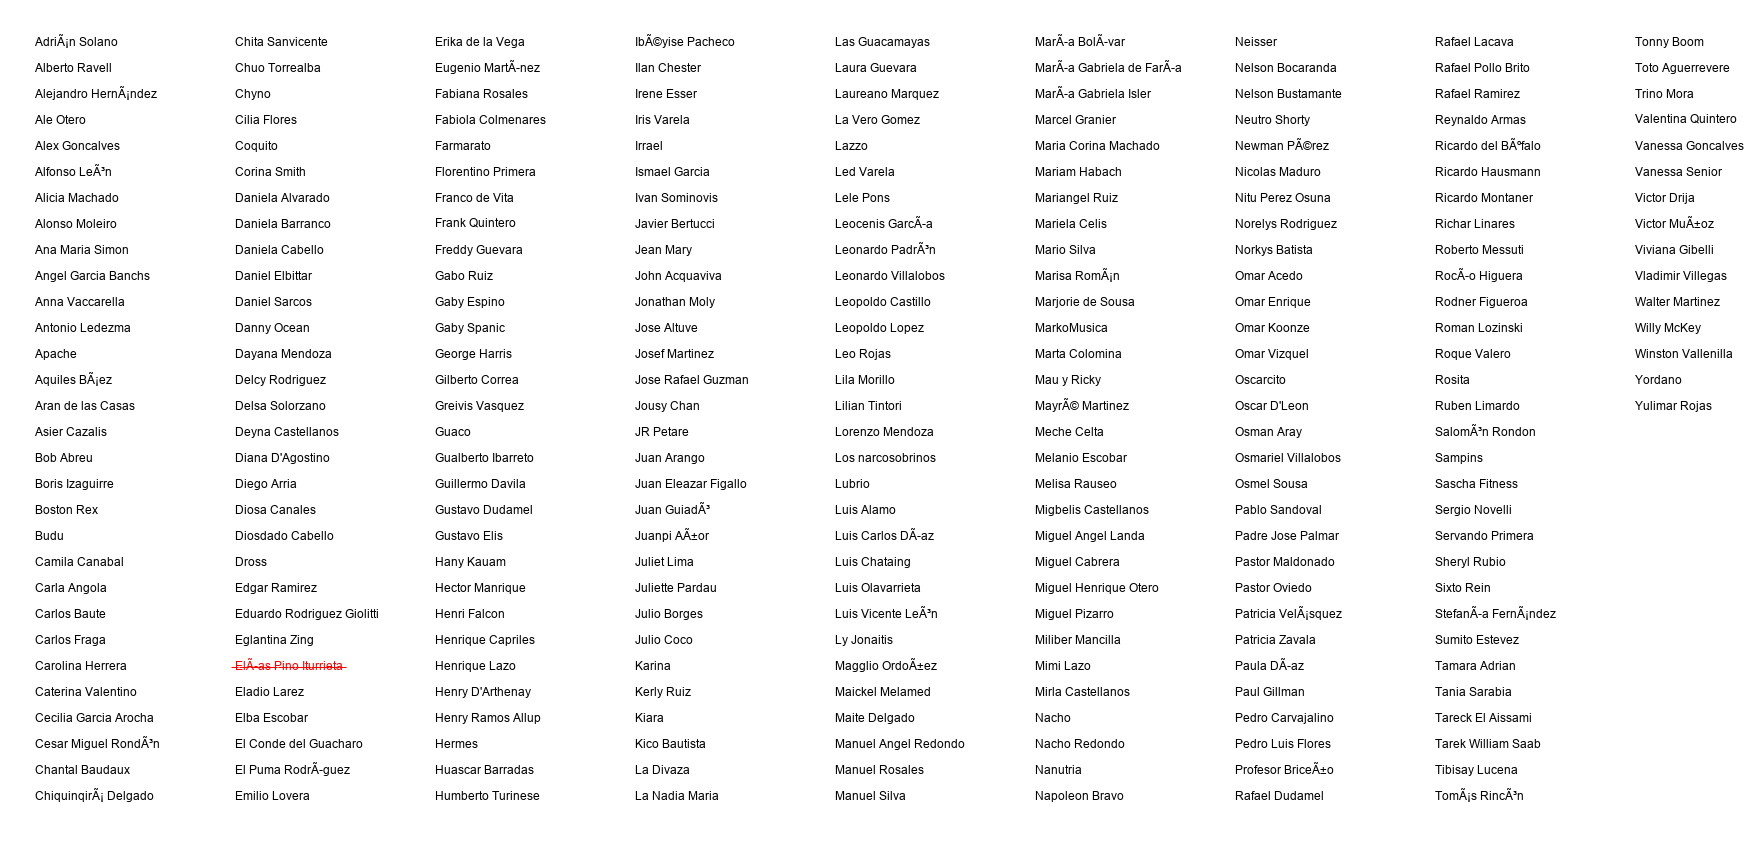
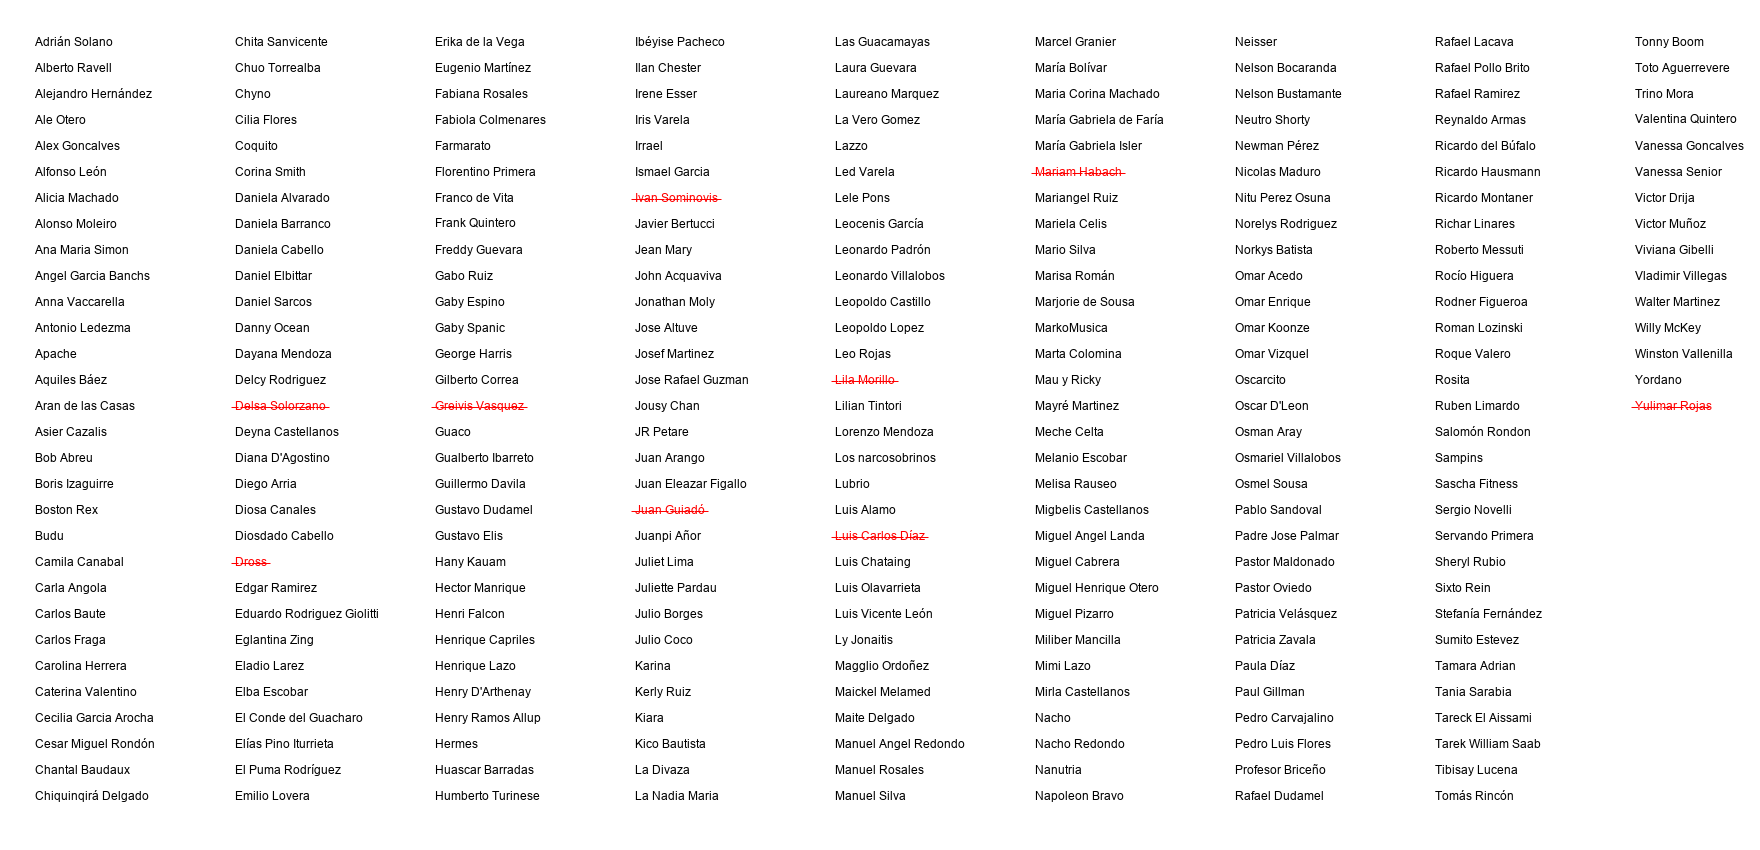
new version of bot virus

diff --git a/bot.py b/bot.py
@@ -8,6 +8,7 @@ import re
 from config import BotHelper
 from PIL import Image, ImageDraw, ImageFont
 import logging
+from datetime import date
 
 
 class Player:
@@ -32,8 +33,8 @@ class Bot(BotHelper):
 
         return instance_list
 
-    def selectPlayers(self):
-        print("Seleccionando jugadores")
+    def selectPlayer(self):
+        print("Seleccionando jugador")
         # Get all alive players
         db_player_list = self.query_all("SELECT * FROM players WHERE isalive = true")
         self.player_list = self.create_player_list(db_player_list)
@@ -43,45 +44,32 @@ class Bot(BotHelper):
         if (self.alive_players == 1 ):
             # Exit with winner
             self.winner = True
-            return self.player_list[0], None;
+            return self.player_list[0]
 
         # Choose player based on selectprob by id
-        killer = random.choices(self.player_list, weights=[player.selectprob for player in self.player_list])
-        victim_list = [player for player in self.player_list if player.p_id != killer[0].p_id]
-
-        # Choose victim based on deathprob
-        victim = random.choices(victim_list, weights=[victim.deathprob for victim in victim_list])
+        infected = random.choices(self.player_list, weights=[player.selectprob for player in self.player_list])
 
         # Killer gets more selectprob and less deathprob
-        killer[0].deathprob -= 0
-        killer[0].selectprob += 0
-        killer[0].wins += 1
+        infected[0].deathprob -= 0
+        infected[0].selectprob += 0
+        infected[0].wins += 0
 
         # Victim gets killed
-        victim[0].isalive = False
+        infected[0].isalive = False
 
         self.alive_players -= 1
 
         # Return players in a tuple
-        print(f"Jugadores seleccionados. {killer[0].name} y {victim[0].name}")
-        return killer[0], victim[0];
+        print(f"Jugador infectado. {infected[0].name}")
+        return infected[0]
 
-    def updateDB(self, killer, victim): 
+    def updateDB(self, infected): 
         print("Actualizar BD")
-        # Update Killer probabilities
-        try:
-            update_k_query = """Update players set deathprob = %s, selectprob = %s, wins = %s where id = %s"""
-            self.cursor.execute(update_k_query, (killer.deathprob, killer.selectprob, killer.wins, killer.p_id ))
-            self.conn.commit()
-        except (Exception, psycopg2.Error) as error :
-            print ("Error while connecting to PostgreSQL", error)
-            self.close()
-            sys.exit(1)
 
         # Update victim status
         try:
             update_v_query = """Update players set isalive = %s where id = %s"""
-            self.cursor.execute(update_v_query, (False, victim.p_id ))
+            self.cursor.execute(update_v_query, (False, infected.p_id))
             self.conn.commit()
         except (Exception, psycopg2.Error) as error :
             print ("Error while connecting to PostgreSQL", error)
@@ -133,7 +121,7 @@ class Bot(BotHelper):
         print("Imagen generada")
         return img
 
-    def tweetResults(self, killer, victim):
+    def tweetResults(self, infected):
         # Create a tweet
         print("Creando tweet final")
 
@@ -141,39 +129,23 @@ class Bot(BotHelper):
         status_img = open('status.png', 'rb')
         img_id = self.api.media_upload(filename="status.png")
 
-        # Calcular semana del evento
-        current_date = self.query_all("SELECT * from gamedate;")
+        # Calcular fecha del evento
+        current_date = date.today()
 
-        year = current_date[0][0]
-        term = current_date[0][1]
-        id_db = current_date[0][2]
+        year = current_date.year
+        month = current_date.month
+        day = current_date.day
 
-        name1 = killer.name.strip()
+        infected_name = infected.name.strip()
 
-        if victim is not None:
-            name2 = victim.name.strip()
+        if not self.winner:
             with open('Temp.txt', 'w') as f:
-                f.write(f'{term.capitalize()} Lapso del año {year}.\n\n{name1} HA MATADO a {name2}.\n\nQuedan {self.alive_players} ignacianos.')
+                f.write(f'Hoy es {day}/{month}/{year}.\n\nActualmente existen ## infectados en el país.\n\n{infected_name} HA DADO POSITIVO POR CORONAVIRUS.\n\nQuedan {self.alive_players} personas sanas.')
         else:
             with open('Temp.txt', 'w') as f:
-                f.write(f'{term.capitalize()} Lapso del año {year}.\n\nEL ÚLTIMO IGNACIANO ES: {name1}.\n\n¡EN TODO AMAR Y SERVIR!')
+                f.write(f'Hoy es {day}/{month}/{year}.\n\nActualmente existen ## infectados en el país.\n\n¡{infected_name} ES LA ÚLTIMA PERSONA SANA DEL PAÍS, HA CONSEGUIDO LA CURA DEL VIRUS!')
 
-        if term == "TERCER":
-            new_term = "PRIMER"
-        elif term == "PRIMER":
-            new_term = "SEGUNDO"
-            year = year + 1
-        elif term == "SEGUNDO":
-            new_term = "TERCER"
-
-        print(f"Twitteando resultados {term} {year} jug1: {name1} ")
-        #try:
-        #    update_t_query = """Update gamedate set year = %s, term = %s where id = %s"""
-        #    self.cursor.execute(update_t_query, (year, new_term.upper(), id_db))
-        #    self.conn.commit()
-        #except (Exception, psycopg2.Error) as error :
-        #    print ("Error while connecting to PostgreSQL", error)
-        #   sys.exit(1)
+        print(f"Twitteando resultados {infected_name} ")
 
         with open('Temp.txt','r') as f:
             self.api.update_status(f.read(), media_ids=[img_id.media_id_string])
@@ -186,34 +158,33 @@ def test_run():
 
     while not bot.winner:
 
-        player1, player2 = bot.selectPlayers() # Select players from db and get attributes
+        infected = bot.selectPlayer() # Select players from db and get attributes
         
-        if player2 is None:
+        if bot.winner:
             break
 
-        bot.updateDB(player1, player2)
-        print(f'En esta ronda {player1.name.strip()} HA MATADO A {player2.name.strip()}')
+        bot.updateDB(infected)
+        print(f'En esta ronda {infected.name.strip()} HA SIDO INFECTADO')
         print(f'Quedan: {bot.alive_players}')
-        bot.updateDB(player1, player2)
+        bot.updateDB(infected)
         print("------------------------------------------------------------------------")
         all_players_list = bot.generatePlayerList()
         bot.draw_image(all_players_list)
         time.sleep(3)
 
     print(f'Final del juego: {bot.winner}')
-    winner = player1
+    winner = infected
     print(f'HA GANADO: {winner.name}')
 
-    
     bot.close()
 
 def main():
     bot = Bot() # Create Bot
-    player1, player2 = bot.selectPlayers() # Select killer and victim
-    bot.updateDB(player1, player2) # Update values in DB
+    INFECTED = bot.selectPlayer() # Select killer and victim
+    bot.updateDB(INFECTED) # Update values in DB
     all_players_list = bot.generatePlayerList() # Create list with alive players
     bot.draw_image(all_players_list) # Create image with player names
-    bot.tweetResults(player1, player2) # Tweet result with image
+    bot.tweetResults(INFECTED) # Tweet result with image
     bot.close() # Close db connections
     sys.exit(0)
 
